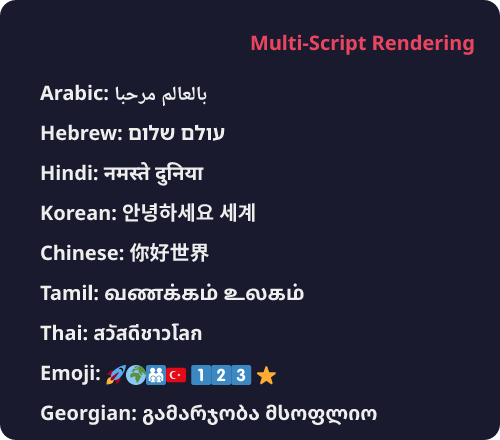
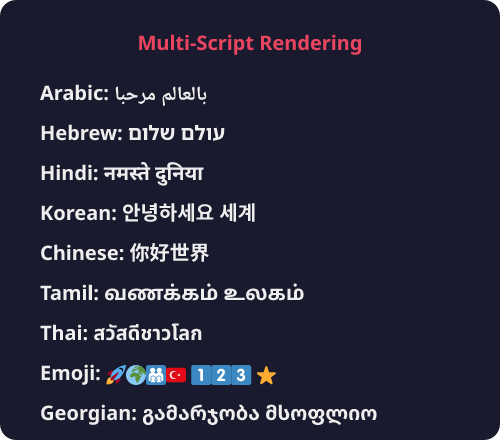
fix text-anchor alignment in text-to-path conversion

Changed region(s): [[0.27, 0.0591, 0.96, 0.1477]]

diff --git a/src/renderers/text-processor.js b/src/renderers/text-processor.js
@@ -246,7 +246,7 @@ function shapeAndRender(hb, fontObj, text, x, y, fontSize, fill, featureString) 
 }
 
 export async function generateTextPaths(text, x, y, fontSize, fill, primaryFont, internationalFonts, fallbackFont, options = {}) {
-    const { enableEmoji = true, fontWeight = 700, featureString = '' } = options;
+    const { enableEmoji = true, fontWeight = 700, featureString = '', textAnchor = 'start' } = options;
     const hb = await FontLoader.getHb();
     const parts = [];
     let currentX = x;
@@ -301,5 +301,10 @@ export async function generateTextPaths(text, x, y, fontSize, fill, primaryFont,
         }
     }
 
-    return parts.join('');
+    const content = parts.join('');
+    if (textAnchor === 'start') return content;
+
+    const totalWidth = currentX - x;
+    const offset = textAnchor === 'middle' ? -totalWidth / 2 : -totalWidth;
+    return `<g transform="translate(${offset}, 0)">${content}</g>`;
 }

diff --git a/src/index.js b/src/index.js
@@ -57,10 +57,10 @@ export class UniversalSVGRenderer {
                 // Step 4: Generate text paths for all elements in parallel
                 const pathResults = await Promise.all(
                     textEntries.map(({ textContent, attributes }) => {
-                        const { fontSize, fill, fontWeight, x, y } = attributes;
+                        const { fontSize, fill, fontWeight, textAnchor, x, y } = attributes;
                         return generateTextPaths(
                             textContent, x, y, fontSize, fill, primaryFont, internationalFonts, effectiveFallback,
-                            { enableEmoji: this.options.enableEmoji, fontWeight, featureString }
+                            { enableEmoji: this.options.enableEmoji, fontWeight, featureString, textAnchor }
                         );
                     })
                 );

diff --git a/src/utils/svg-parser.js b/src/utils/svg-parser.js
@@ -32,6 +32,7 @@ function parseTextElement(fullMatch, contentMatch) {
     const fill = attr(fullMatch, 'fill') || 'white';
     const fontWeightRaw = attr(fullMatch, 'font-weight');
     let fontWeight = normalizeFontWeight(fontWeightRaw);
+    const textAnchor = attr(fullMatch, 'text-anchor') || 'start';
     let x = parseFloat(attr(fullMatch, 'x') || '70');
     let y = parseFloat(attr(fullMatch, 'y') || '446');
 
@@ -62,6 +63,7 @@ function parseTextElement(fullMatch, contentMatch) {
             fontSize: styleFontSize || fontSizeVal,
             fill: styleFill || fill,
             fontWeight: styleFontWeight || fontWeight,
+            textAnchor,
             x,
             y
         }
